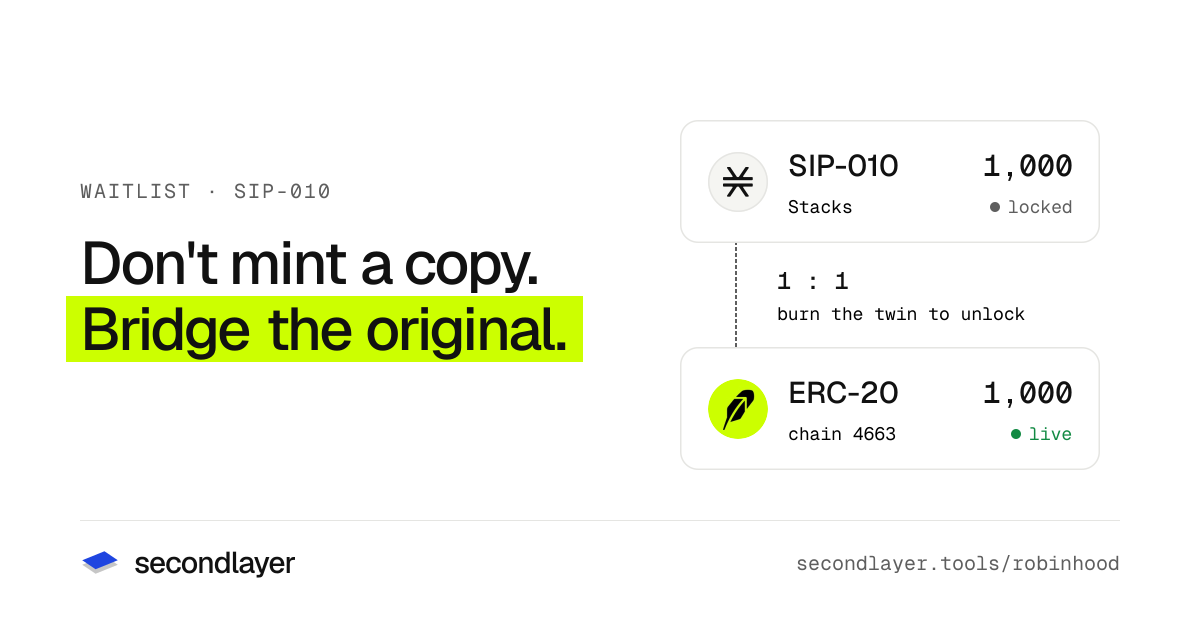
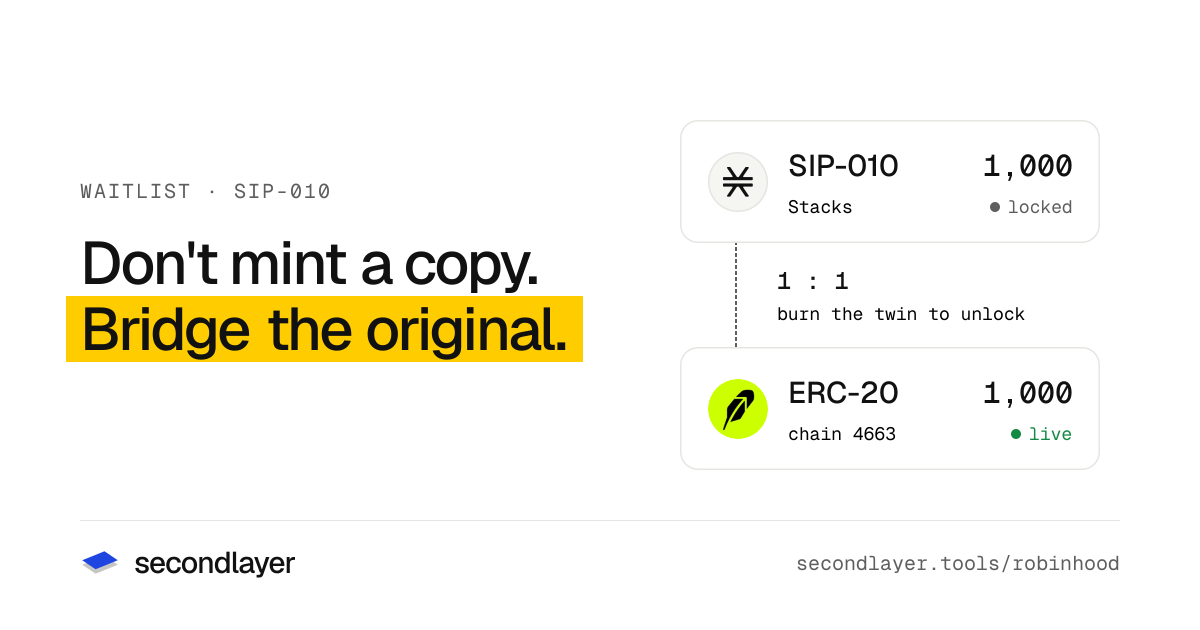
chore(web): robinhood social card uses the brand yellow highlight

Changed region(s): [[0.0308, 0.4524, 0.4933, 0.573]]

diff --git a/apps/web/scripts/generate-og.tsx b/apps/web/scripts/generate-og.tsx
@@ -793,7 +793,6 @@ function ArtDocs() {
 // The /robinhood round trip: the original SIP-010 and its ERC-20 twin, linked
 // 1:1 — the same twin cards as the page, full strength, since they are the
 // point of the card rather than background texture.
-const NEON = "#ccff00"; // Robin Neon, headline highlight only
 
 function TwinToken({
 	coin,
@@ -1282,7 +1281,6 @@ const CARDS: CardSpec[] = [
 		line2: "Bridge the original.",
 		size: 60,
 		path: `${SITE}/robinhood`,
-		highlight: NEON,
 		artifact: <ArtRobinhood />,
 	},
 ];
